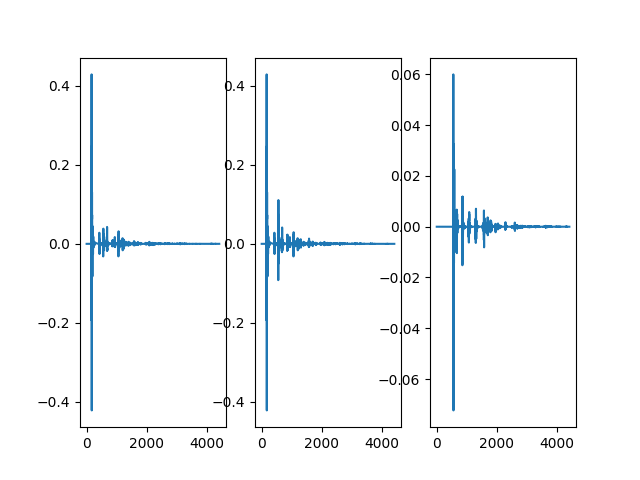
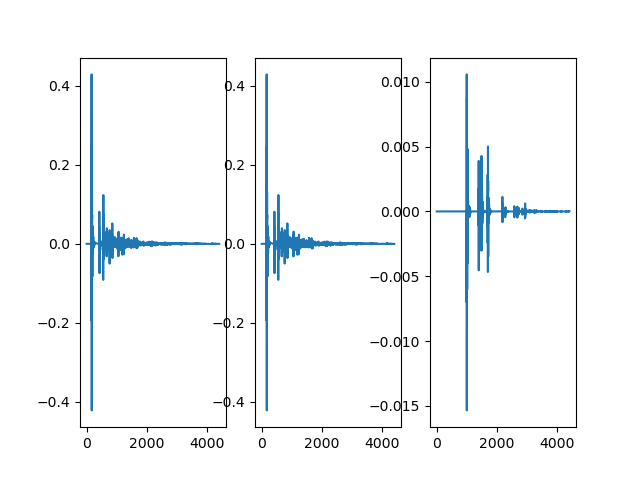
fix bugs of n_reflection

diff --git a/RoomSim.py b/RoomSim.py
@@ -12,9 +12,8 @@ from Reverb import RT2Absorb
 from Room import ShoeBox
 from Source import Source
 from Receiver import Receiver
-from utils import cal_dist, cartesian2pole, pole2cartesian, filter
+from utils import cal_dist, cartesian2pole, pole2cartesian, filter, My_Logger
 from BasicTools import ProcessBar
-
 
 class RoomSim(object):
     def __init__(self, config):
@@ -48,20 +47,20 @@ class RoomSim(object):
         self.zero_padd_array = np.zeros(n_fft)
 
         RT60 = self.room.RT60
-        self.ir_len = np.int(np.floor(np.max(RT60)*self.Fs))
+        delay_rough = cal_dist(self.source.pos, self.receiver.pos) / self.c_air
+        self.ir_len = np.int(np.floor((np.max(RT60)+delay_rough)*self.Fs))
 
         self.n_cube_xyz = np.ceil(self.ir_len/self.Fs_c/(self.room.size*2))
-        self.n_img_in_cube = 8
-
-        # init
-        self.amp_gain_reflect_all = np.zeros((0, self.F_abs.shape[0]))
+        self.n_img_in_cube = 8  # number of image source in one cube
 
         m_air = 6.875e-4*(self.F_abs/1000)**1.7
         self.air_attenuate_per_dist = np.exp(-0.5*m_air).T
 
         # threshold of ir amplitude
-        self.reflect_amp_theta = 1e-1
+        self.reflect_amp_theta = 1e-10
 
+        # init
+        self.amp_gain_reflect_all = np.zeros((0, self.F_abs.shape[0]))
         self.img_pos_all = np.zeros((0, 3))
         self.reflect_attenuate_all = np.zeros((0, self.F_abs.shape[0]))
         self.n_img = 0
@@ -134,7 +133,9 @@ class RoomSim(object):
             result = result * self.cal_b_power(wall_i, n_all[wall_i])
         return result
 
-    def get_img(self, is_plot=False, is_verbose=False):
+    def get_img(self, is_plot=False, is_verbose=False, log_path='log/get_img.log'):
+        logger = My_Logger(log_path)
+
         # TODO input argments validate
         # use dictionary to save the exponent of B
         # init
@@ -142,6 +143,7 @@ class RoomSim(object):
 
         # codes the eight permutations of x+/-xp, y+/-yp, z+/-zp
         # where [-1 -1 -1] identifies the parent source.
+        # 需要沿着axis的正方向计算reflect的相对次数
         img_pos_rel_in_cube = np.array(
             [[+1, +1, +1],
              [+1, -1, +1],
@@ -176,11 +178,6 @@ class RoomSim(object):
         reflect_attenuate_all = np.zeros((n_img_max, n_F_abs))
         n_img = -1  # number of significant images of each parent source
 
-        logger = logging.getLogger()
-        file_handler = logging.FileHandler('log/get_img.log', mode='w')
-        logger.addHandler(file_handler)
-        logger.setLevel(logging.INFO)
-
         for cube_i_x in np.arange(-self.n_cube_xyz[0], self.n_cube_xyz[0]+1):
             cube_pos_x = cube_i_x * self.room.size_double[0]
             for cube_i_y in np.arange(-self.n_cube_xyz[1], self.n_cube_xyz[1]+1):
@@ -188,36 +185,31 @@ class RoomSim(object):
                 for cube_i_z in np.arange(-self.n_cube_xyz[2], self.n_cube_xyz[2]+1):
                     cube_pos_z = cube_i_z * self.room.size_double[2]
                     cube_pos = np.asarray([cube_pos_x, cube_pos_y, cube_pos_z])
-                    cube_i_xyz = np.asarray([cube_i_x, cube_i_y, cube_i_z])
-                    n_reflect_xyz1 = np.abs(cube_i_xyz).reshape([3, 1])
+                    n_reflect_xyz1 = np.abs(np.asarray([cube_i_y, cube_i_x, cube_i_z]))
+                    
                     for i in np.arange(self.n_img_in_cube):
-                        img_pos = cube_pos + img_pos_in_cube[i]
                         n_img = n_img+1
-
-                        if cube_i_x == 0 and cube_i_y == 0 and cube_i_z == 0:
-                            print(n_img, img_pos)
-
+                        img_pos = cube_pos + img_pos_in_cube[i]
                         img_pos_all[n_img] = img_pos
-                        n_reflect_xyz0 = n_reflect_xyz1 + n_reflect_relative[i].reshape([3, 1])
-                        n_reflect_wall_all = np.reshape(
-                            np.concatenate((n_reflect_xyz0, n_reflect_xyz1),
-                                           axis=1),
-                            [6, 1])
+
+                        n_reflect_xyz0 = np.abs(np.asarray([cube_i_y, cube_i_x, cube_i_z]) - n_reflect_relative[i])
+                        n_reflect_wall_all = np.concatenate((n_reflect_xyz0, n_reflect_xyz1))
                         reflect_attenuate_all[n_img] = self.cal_B_power(np.squeeze(n_reflect_wall_all))
 
-                        logger.info(f'{n_img}  {n_reflect_wall_all.reshape([-1])}  {img_pos_all[n_img]}')
+                        # print log information
+                        logger.info(f'{n_img} {img_pos}  {n_reflect_wall_all}')
 
-        logger.removeHandler(file_handler)
-        # Complete impulse response for the source
         n_img = n_img + 1
         self.img_pos_all = img_pos_all[:n_img]
-        self.reflect_attenuate_all = reflect_attenuate_all
+        self.reflect_attenuate_all = reflect_attenuate_all[:n_img]
         self.n_img = n_img
 
+        logger.close()
+
         if is_plot:
-            self.room.show(extra_point=self.img_pos_all)
-            plt.title(f'{self.n_img}')
-            plt.show()
+            fig, ax = self.room.show(extra_point=self.img_pos_all)
+            plt.title(f'n_img: {self.n_img}')
+            return fig, ax
 
     def amp_spec_to_ir(self, amp_reflect):
         # interpolated grid points
@@ -230,30 +222,30 @@ class RoomSim(object):
         return ir
 
     def _cal_ir_1mic(self, mic, log_path):
+        logger = My_Logger(log_path)
+
         ir = np.zeros(self.ir_len)
-        # pb = ProcessBar(self.n_img)
-
-        logger = open(log_path, mode='w')
-
+        pb = ProcessBar(self.n_img)
         for img_i in np.arange(self.n_img):
-            # pb.update()
+            pb.update()
             if mic.direct_type == 'binaural_L' or mic.direct_type == 'binaural_R':
                 pos_img_to_mic = np.matmul(mic.tm_room.T, (self.img_pos_all[img_i] - self.receiver.pos))
             else:
                 pos_img_to_mic = np.matmul(mic.tm_room.T, (self.img_pos_all[img_i] - mic.pos_room))
             *angle_img_to_mic, dist = cartesian2pole(pos_img_to_mic)
             
+            logger.info(f'{img_i},{dist},{angle_img_to_mic[0]}\n')
+            
             # 
-            # logger.info(f'{img_i}  {dist:.2f}  {angle_img_to_mic}')
-
             pos_mic_to_img = np.matmul(self.source.tm.T, (mic.pos_room - self.img_pos_all[img_i]))
             *angle_mic_to_img, _ = cartesian2pole(pos_mic_to_img)
 
             reflect_amp = self.reflect_attenuate_all[img_i]
+
             # energy loss because of distance
             reflect_amp = reflect_amp/dist
-            # absorption due to air
 
+            # absorption due to air
             reflect_amp = reflect_amp*(self.air_attenuate_per_dist**dist)
 
             # calculate ir based on amp
@@ -261,19 +253,16 @@ class RoomSim(object):
             ir_tmp = self.amp_spec_to_ir(reflect_amp)
 
             # directivity of sound source, directivity after imaged
-            # ir_source = self.source.get_ir(angle_mic_to_img)
-            # ir_tmp = filter(ir_source, 1, ir_tmp)
+            ir_source = self.source.get_ir(angle_mic_to_img)
+            ir_tmp = filter(ir_source, 1, ir_tmp)
 
             # For primary sources, and image sources with impulse response
             # peak magnitudes >= -100dB (1/100000)
-            if True:  # np.max(np.abs(ir_tmp[:self.n_fft_half_valid])) >= self.reflect_amp_theta:
+            if np.max(np.abs(ir_tmp[:self.n_fft_half_valid])) >= self.reflect_amp_theta:
                 # mic directivity filter
-                ir_mic, azi_i, ele_i = mic.get_ir(angle_img_to_mic)
+                ir_mic = mic.get_ir(angle_img_to_mic)
                 if ir_mic is None:
                     continue
-                
-                logger.write(f'{img_i} {self.img_pos_all[img_i]} {dist}  {pos_img_to_mic}')
-                
                 ir_tmp = filter(ir_mic, 1, np.concatenate((ir_tmp, self.zero_padd_array)))
                 
                 # parse delay into integer and fraction.
@@ -298,23 +287,14 @@ class RoomSim(object):
                         ir[start_index_1: start_index_1+ir_len_tmp] + ir_tmp[:ir_len_tmp]
                 else:
                     # the remaining delay is larger than ir_len, give up
-                    logger.write(f'too larger delay   {delay_sample_num}\n')
+                    logger.info(f'too larger delay   {delay_sample_num}\n')
             else:
-                None
-                # logging.warning('give up small value')
+                logging.warning('give up small value')
 
         # High-pass filtering
         # when interpolating the spectrum of absorption, DC value is assigned to the value of 125Hz
         ir = self.HP_filter(ir)
-
         return ir
-
-    def make_file_logger(self, log_path):
-        logger = logging.getLogger()
-        file_handler = logging.FileHandler(log_path)
-        logger.addHandler(file_handler)
-        logger.setLevel(logging.INFO)
-        return logger, file_handler
 
     def cal_ir_mic(self):
         """
@@ -331,7 +311,7 @@ class RoomSim(object):
         return ir_all
 
     def cal_ir_reciver(self):
-        logger = self.make_file_logger('log/cal_ir_receiver.log')
+        log_path = 'log/cal_ir_receiver.log'
         ir = self._cal_ir_1mic(self.receiver, logger)
         return ir
     
@@ -374,23 +354,21 @@ if __name__ == '__main__':
                        'view': '90, 0, 0',
                        'direct_type': 'binaural_R'}
 
-    # logging.basicConfig(level=logging.INFO)
     roomsim = RoomSim(config)
-
     fig, ax = roomsim.show()
     fig.savefig('img/room.png')
-    # plt.show()
  
-    roomsim.get_img()
+    fig, ax = roomsim.get_img(is_plot=True)
+    fig.savefig('img/image_sources.png')
+    
     # roomsim.save_img_info()
-
     # roomsim.load_img_info()
-    rir = roomsim.cal_ir_mic()
 
+    rir = roomsim.cal_ir_mic()
     fig, ax = plt.subplots(1, 3)
     ax[0].plot(rir[:, 0])
     ax[1].plot(rir[:, 1])
     ax[2].plot(rir[:, 0] - rir[:, 1])
-    fig.savefig('rir.png')
+    fig.savefig('img/rir.png')
 
     np.save('rir.npy', rir)

diff --git a/DelayFilter.py b/DelayFilter.py
@@ -4,7 +4,7 @@ import matplotlib.pyplot as plt
 
 
 class DelayFilter(object):
-    def __init__(self, fs, delay, order=32, f_high=None):
+    def __init__(self, fs, delay, order=32, padd_len=None, f_high=None):
         """
         fir delay filter
         Args:
@@ -33,6 +33,10 @@ class DelayFilter(object):
         self.delay = delay
         self.order = order
 
+        if padd_len is None:
+            padd_len = order
+        self.padd_len = padd_len
+
     def plot_spectrum(self):
         fig, ax = plt.subplots(3, 1)
         ax[0].plot(self.b)
@@ -40,10 +44,11 @@ class DelayFilter(object):
         amp_spec, phase_spec = np.abs(spec), np.angle(spec)
         ax[1].plot(amp_spec)
         ax[2].plot(np.unwrap(phase_spec))
+        return fig, ax
 
     def filter(self, x, is_padd=False):
         if is_padd:
-            x_local = np.concatenate([x, np.zeros(self.order)])
+            x_local = np.concatenate([x, np.zeros(self.padd_len)])
         else:
             x_local = x
         y = scipy.signal.lfilter(self.b, self.a, x_local)

diff --git a/utils.py b/utils.py
@@ -1,5 +1,6 @@
 import numpy as np
 import scipy.signal
+import logging
 
 
 rad_per_degree = np.pi/180
@@ -33,3 +34,21 @@ def filter(b, a, x):
     if len(b.shape) == 0:
         b = b.reshape(1)
     return scipy.signal.lfilter(b, a, x)
+
+
+class My_Logger(object):
+    def __init__(self, log_path, log_level=logging.INFO):
+        logger = logging.getLogger()
+        file_handler = logging.FileHandler(log_path)
+        logger.addHandler(file_handler)
+        logger.setLevel(log_level)
+        
+        self.logger = logger
+        self.file_handler = file_handler
+
+    def info(self, log_str):
+        self.logger.info(log_str)
+    
+    def close(self):
+        self.logger.removeHandler(self.file_handler)
+        del self.logger

diff --git a/Directivity.py b/Directivity.py
@@ -58,11 +58,11 @@ class Directivity(object):
         ir = self.S3D[azi_i, ele_i]
         if ir is None:
             if self.direct_type == 'binaural_L' or self.direct_type == 'binaural_R':
-                if angle[1] != 0:  # elevation = -40 ~ 90 
-                    return None, None, None
+                if angle[1] <- 40:  # elevation = -40 ~ 90 
+                    return None
             dist_all = np.sum((self.valid_index_all-np.asarray([[azi_i, ele_i]]))**2, axis=1)
             azi_i, ele_i = self.valid_index_all[np.argmin(dist_all)]
-        return self.S3D[azi_i, ele_i], azi_i, ele_i
+        return self.S3D[azi_i, ele_i]
 
     @classmethod
     def validate(self, is_plot=True):

diff --git a/test.py b/test.py
@@ -37,5 +37,24 @@ def test_fft():
     plt.show()
 
 
+def test_hrir():
+    hrir_L_path = 'SENSOR/Types/binaural_L.npy'
+    hrir_L = np.load(hrir_L_path, allow_pickle=True)
+
+    hrir_R_path = 'SENSOR/Types/binaural_R.npy'
+    hrir_R = np.load(hrir_R_path, allow_pickle=True)
+    
+    for i in range(361):
+        if hrir_L[i, 90] is None and hrir_R[360-i, 90] is None:
+            continue
+        fig, ax = plt.subplots(1, 1)
+        ax.plot(hrir_L[i, 90])
+        ax.plot(hrir_R[360-i, 90])
+        ax.set_title(f'{i}')
+        fig.savefig(f'brir_comp_{i}.png')
+        plt.close(fig)
+
+
 if __name__ == '__main__':
-    test_rir()
+    test_hrir()
+
